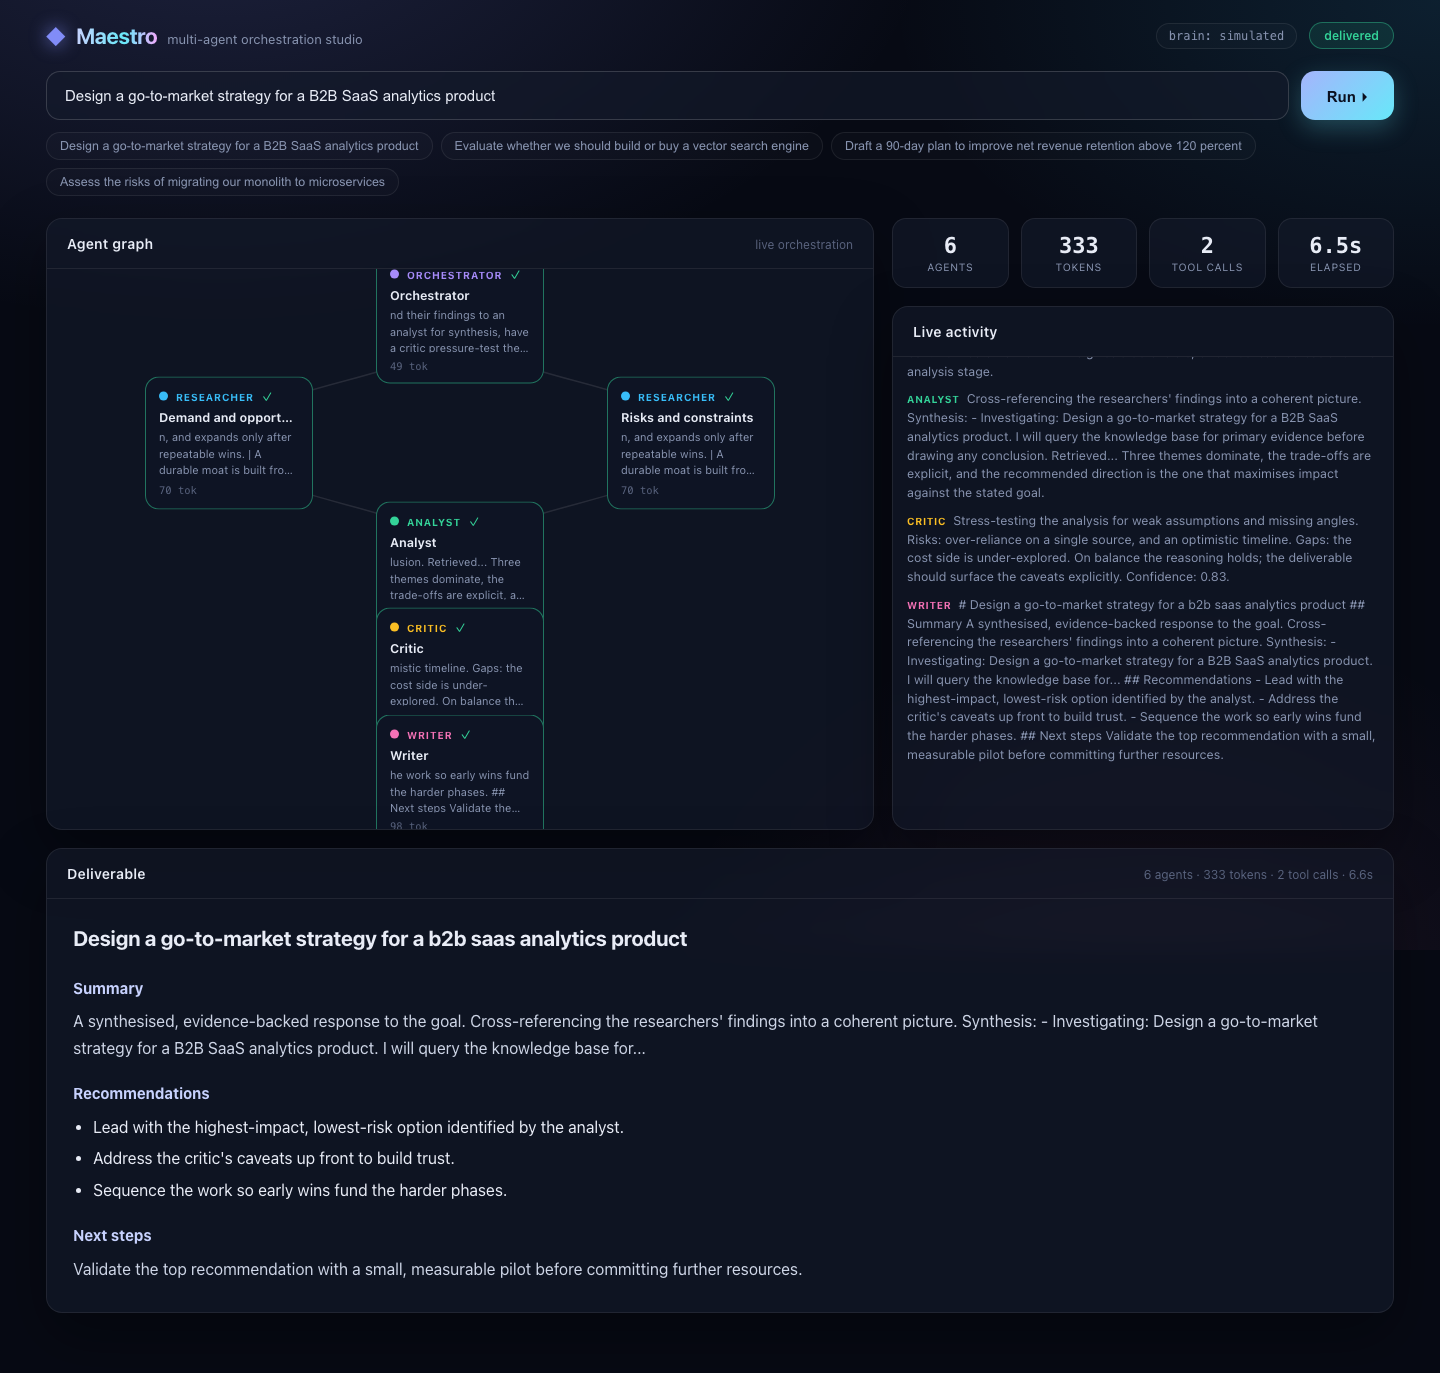
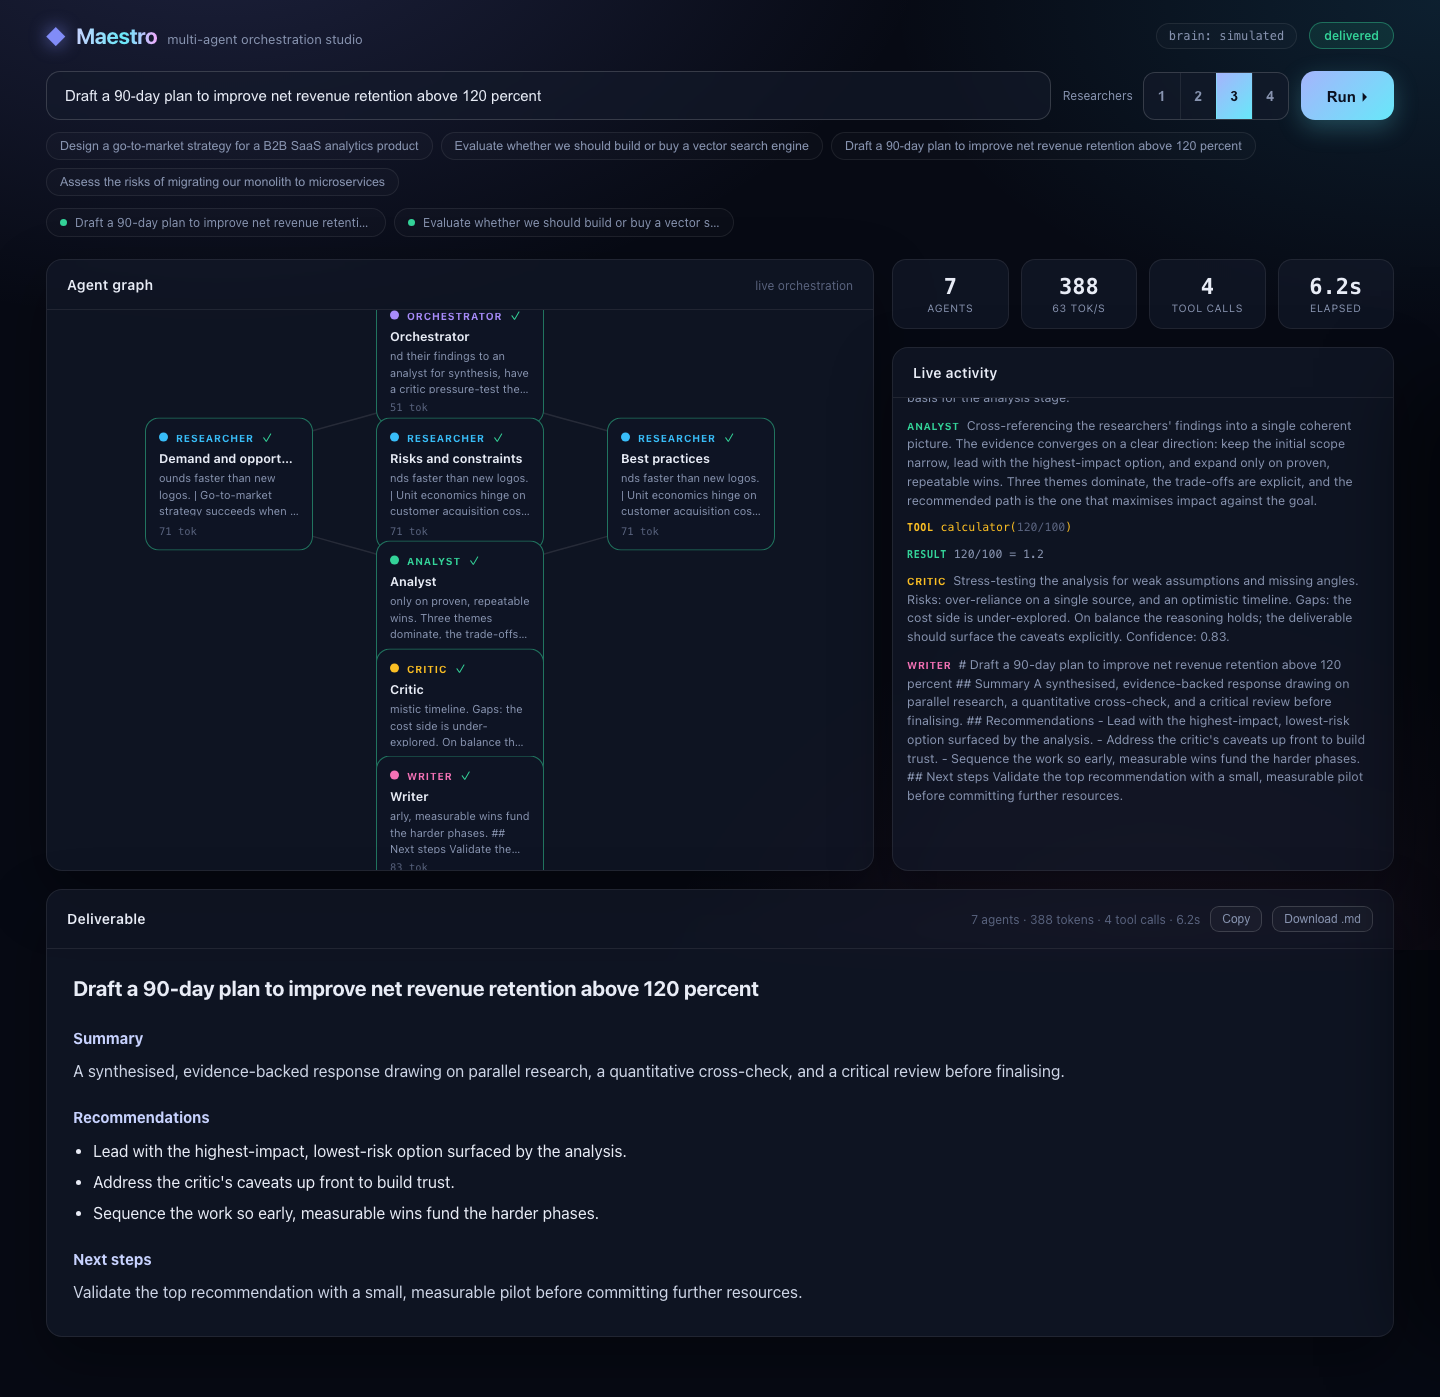
docs: document Gemini and the interactive features; refresh screenshots
README covers the free Gemini path and the new interactivity, with updated
mission-control, inspector, and deliverable screenshots.

diff --git a/README.md b/README.md
@@ -18,12 +18,17 @@ It is a demonstration of how to build and, just as importantly, how to *observe*
 
 ## Highlights
 
-- 🎛️ **Live mission control.** An animated agent graph where nodes light up as they think, edges pulse as work is handed off, and thoughts stream in token by token.
+- 🎛️ **Live mission control.** An animated agent graph where nodes light up as they think, edges pulse as work is handed off, and thoughts stream in token by token, alongside live token, tool-call, throughput, and latency metrics.
+- 🕹️ **Interactive.** Size the team (1 to 4 researchers), click any agent to inspect its full reasoning and tool calls, stop a run in flight, replay past runs from the history strip, and copy or download the final deliverable.
 - 🧠 **Real orchestration engine.** A recognisable multi-agent pattern (plan, fan out parallel research, synthesise, critique, write) built on async Python.
-- 🔭 **Event-sourced and observable.** Every action is an event on a per-run bus. The UI, a reconnecting client, and the tests are all projections of the same ordered, replayable stream.
-- 🔌 **Pluggable brains and tools.** Swap the offline brain for any OpenAI-compatible model; add tools (the demo ships a knowledge-base search and a safe calculator) without touching the agents.
+- 🔭 **Event-sourced and observable.** Every action is an event on a per-run bus. The UI, a reconnecting client, run replay, and the tests are all projections of the same ordered, replayable stream.
+- 🔌 **Pluggable brains and tools.** Runs offline out of the box; add a free Gemini key (or OpenAI, or any OpenAI-compatible endpoint) for real models. Add tools without touching the agents.
 - 🌐 **Build-free frontend.** The UI is served by the backend as static files. No Node toolchain, no bundler. `pip install` and it runs.
 - ✅ **Tested and typed.** Async `pytest` across the stack, `mypy`-clean, `ruff`-clean, CI on Python 3.10 to 3.13.
+
+Click any agent to open the inspector and read its full reasoning and tool calls:
+
+![Agent inspector](docs/maestro-inspector.png)
 
 ## How it works
 
@@ -86,15 +91,25 @@ maestro run "Design a go-to-market strategy for a B2B SaaS analytics product"
 
 ## Using real models
 
-Set an API key and the studio uses a live model instead of the offline brain:
+The studio runs offline by default. To use a real model, set a key and restart. The active model shows in the brain badge.
+
+**Google Gemini (free).** Get a free key at [aistudio.google.com/apikey](https://aistudio.google.com/apikey), then:
 
 ```bash
-export OPENAI_API_KEY=sk-...
-export MAESTRO_MODEL=gpt-4o-mini      # optional
+export GEMINI_API_KEY=your-key
+export MAESTRO_MODEL=gemini-2.0-flash   # optional
 maestro serve
 ```
 
-Any OpenAI-compatible endpoint works (set `OPENAI_BASE_URL` for vLLM, Together, Groq, or a local server).
+**OpenAI, or any OpenAI-compatible endpoint.**
+
+```bash
+export OPENAI_API_KEY=sk-...
+export MAESTRO_MODEL=gpt-4o-mini         # optional
+maestro serve
+```
+
+Set `OPENAI_BASE_URL` (or `GEMINI_BASE_URL`) to target vLLM, Together, Groq, or a local server.
 
 ## Extending
 